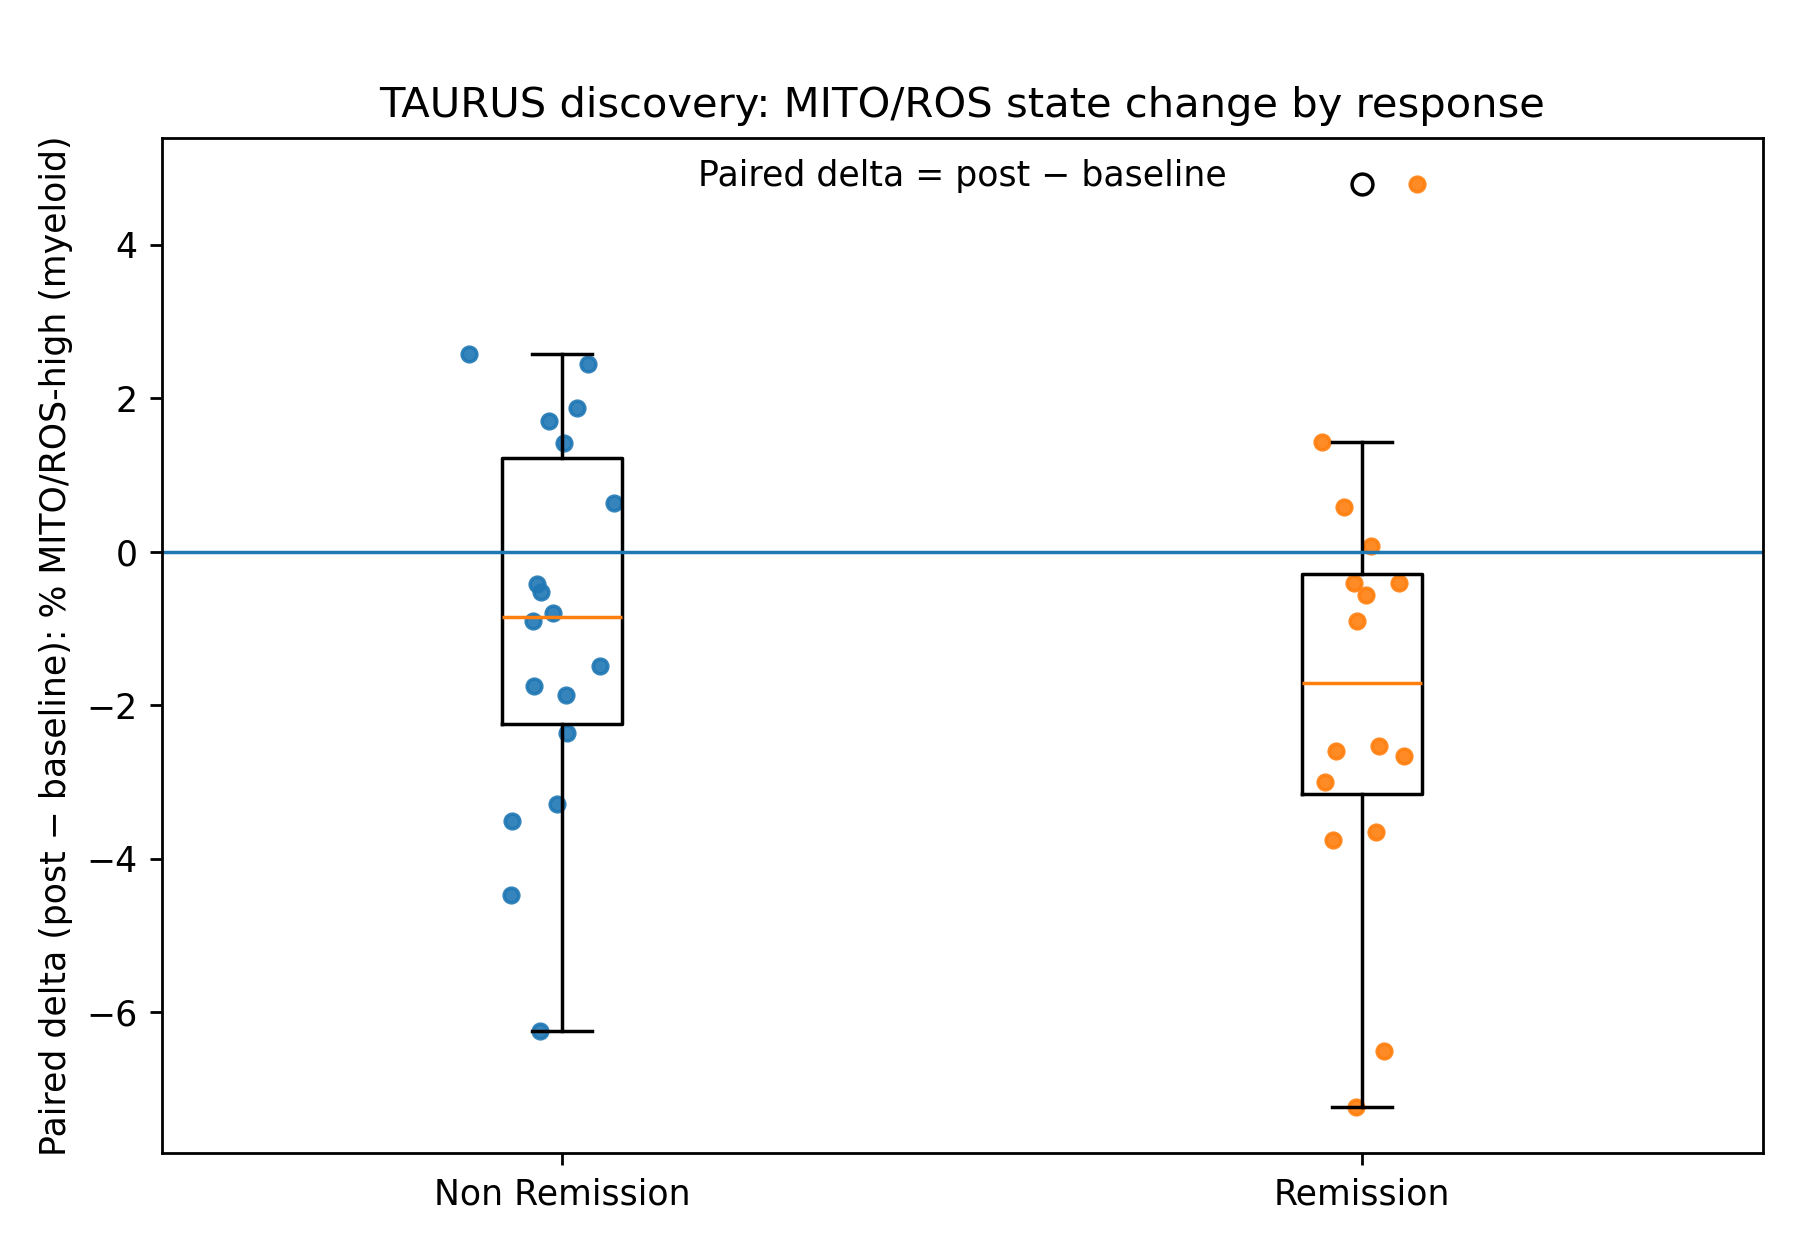
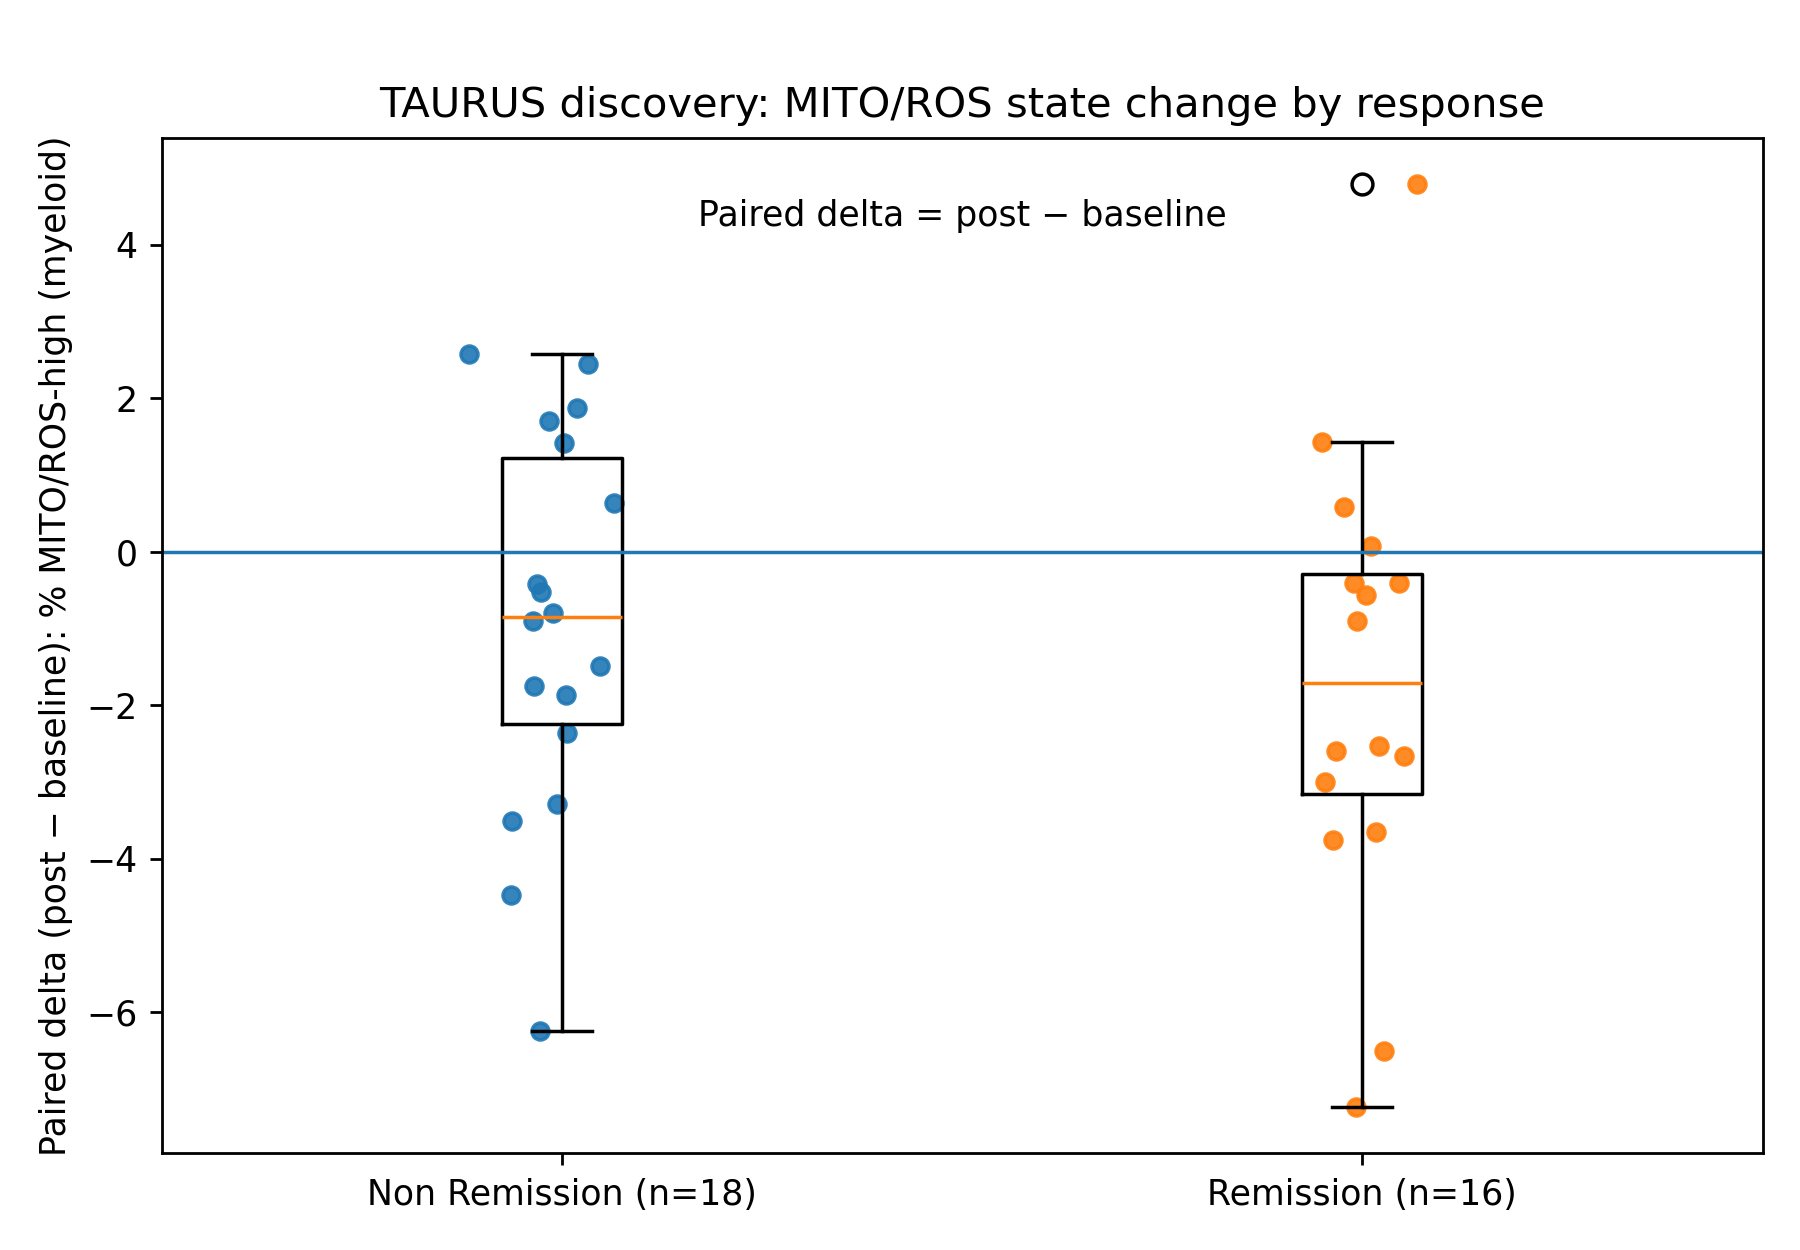
Add n labels and polish subtitle spacing in Figure 1/1b

Changed region(s): [[0.3733, 0.1248, 0.6844, 0.1872], [0.1867, 0.936, 0.4356, 0.9672], [0.6533, 0.936, 0.84, 0.9672]]

diff --git a/scripts/make_fig1_primary.py b/scripts/make_fig1_primary.py
@@ -32,12 +32,12 @@ def main():
         raise ValueError(f"Missing required column: {ycol} (source: {src})")
 
     # ----------------------------
-    # Figure 1: MITO/ROS-high delta by response (if available) else pooled distribution
+    # Figure 1 (S1): MITO/ROS-high delta by response (if available) else pooled
     # ----------------------------
     plt.figure(figsize=(7.2, 5.0))
     ax = plt.gca()
 
-    y = pd.to_numeric(df[ycol], errors="coerce").dropna()
+    y_all = pd.to_numeric(df[ycol], errors="coerce").dropna()
 
     if "response" in df.columns:
         groups = ["Non_Remission", "Remission"]
@@ -47,31 +47,37 @@ def main():
         data = []
         labels = []
         for g in groups:
-            vals = pd.to_numeric(df_plot.loc[df_plot["response"] == g, ycol], errors="coerce").dropna().astype(float).values
+            vals = pd.to_numeric(
+                df_plot.loc[df_plot["response"] == g, ycol],
+                errors="coerce"
+            ).dropna().astype(float).values
             data.append(vals)
-            labels.append(g.replace("_", " "))
+            labels.append(f"{g.replace('_',' ')} (n={len(vals)})")
 
-        ax.boxplot(data, labels=labels, showfliers=True)
+        # Use tick_labels to avoid matplotlib deprecation warning
+        ax.boxplot(data, tick_labels=labels, showfliers=True)
+
         # Add jitter points (two default colors by plotting each group once)
         rng = np.random.default_rng(0)
         for i, vals in enumerate(data, start=1):
             if len(vals) == 0:
                 continue
             x = np.full(len(vals), i) + rng.normal(0, 0.05, size=len(vals))
-            ax.scatter(x, vals, s=18, alpha=0.9)
+            ax.scatter(x, vals, s=24, alpha=0.9)
 
         ax.set_title("TAURUS discovery: MITO/ROS state change by response")
     else:
         # Pooled: single box + points
-        ax.boxplot([y.values], labels=["All subjects"], showfliers=True)
+        ax.boxplot([y_all.values], tick_labels=["All subjects"], showfliers=True)
         rng = np.random.default_rng(0)
-        x = np.full(len(y.values), 1.0) + rng.normal(0, 0.05, size=len(y.values))
-        ax.scatter(x, y.values, s=18, alpha=0.9)
+        x = np.full(len(y_all.values), 1.0) + rng.normal(0, 0.05, size=len(y_all.values))
+        ax.scatter(x, y_all.values, s=24, alpha=0.9)
         ax.set_title("TAURUS discovery: MITO/ROS state change (pooled)")
 
     ax.axhline(0, linewidth=1)
     ax.set_ylabel("Paired delta (post − baseline): % MITO/ROS-high (myeloid)")
-    ax.text(0.5, 0.98, "Paired delta = post − baseline", transform=ax.transAxes, ha="center", va="top")
+    # Move subtitle slightly down so it never feels cramped
+    ax.text(0.5, 0.94, "Paired delta = post − baseline", transform=ax.transAxes, ha="center", va="top")
 
     plt.tight_layout(rect=[0, 0, 1, 0.96])
     plt.savefig(OUT_FIG1, dpi=250)
@@ -103,8 +109,14 @@ def main():
             sub = df_sc[df_sc["response"] == g]
             if len(sub) == 0:
                 continue
-            ax.scatter(sub[xcol], sub[ycol], s=55, marker=marker, alpha=0.9, label=g.replace("_", " "))
-
+            ax.scatter(
+                sub[xcol],
+                sub[ycol],
+                s=55,
+                marker=marker,
+                alpha=0.9,
+                label=g.replace("_", " ")
+            )
         ax.legend(loc="best")
     else:
         ax.scatter(df_sc[xcol], df_sc[ycol], s=55, alpha=0.9)
@@ -115,7 +127,7 @@ def main():
     ax.set_title("TAURUS discovery: MITO/ROS change vs inflammation change")
     ax.set_xlabel("Paired delta (post − baseline): fraction inflamed biopsies")
     ax.set_ylabel("Paired delta (post − baseline): % MITO/ROS-high (myeloid)")
-    ax.text(0.5, 0.98, "Paired delta = post − baseline", transform=ax.transAxes, ha="center", va="top")
+    ax.text(0.5, 0.94, "Paired delta = post − baseline", transform=ax.transAxes, ha="center", va="top")
 
     plt.tight_layout(rect=[0, 0, 1, 0.96])
     plt.savefig(OUT_FIG1B, dpi=250)
